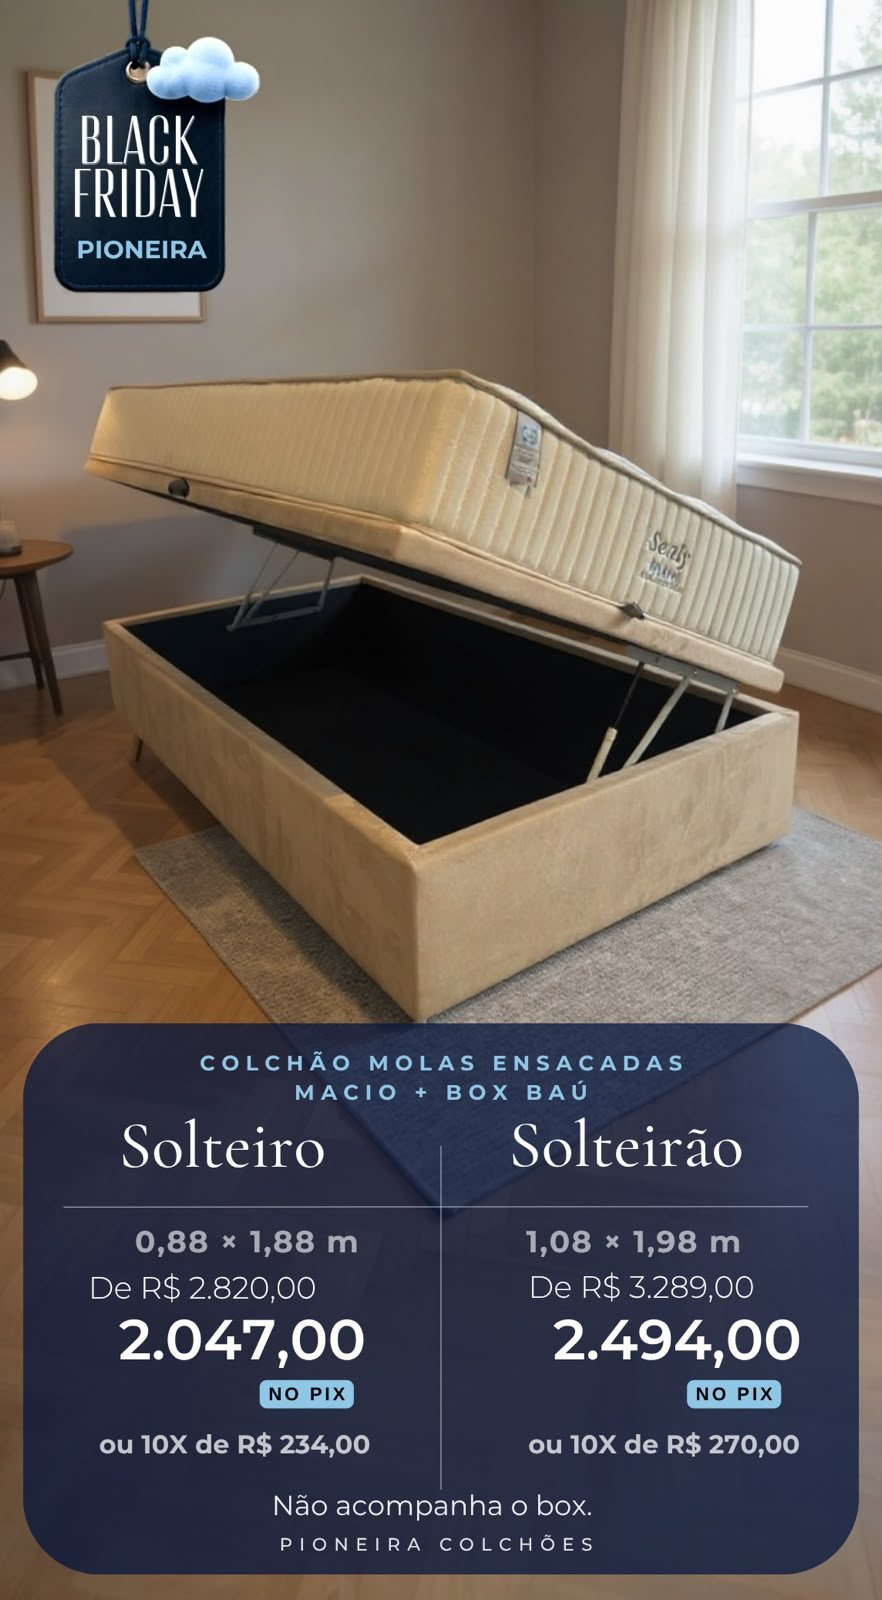
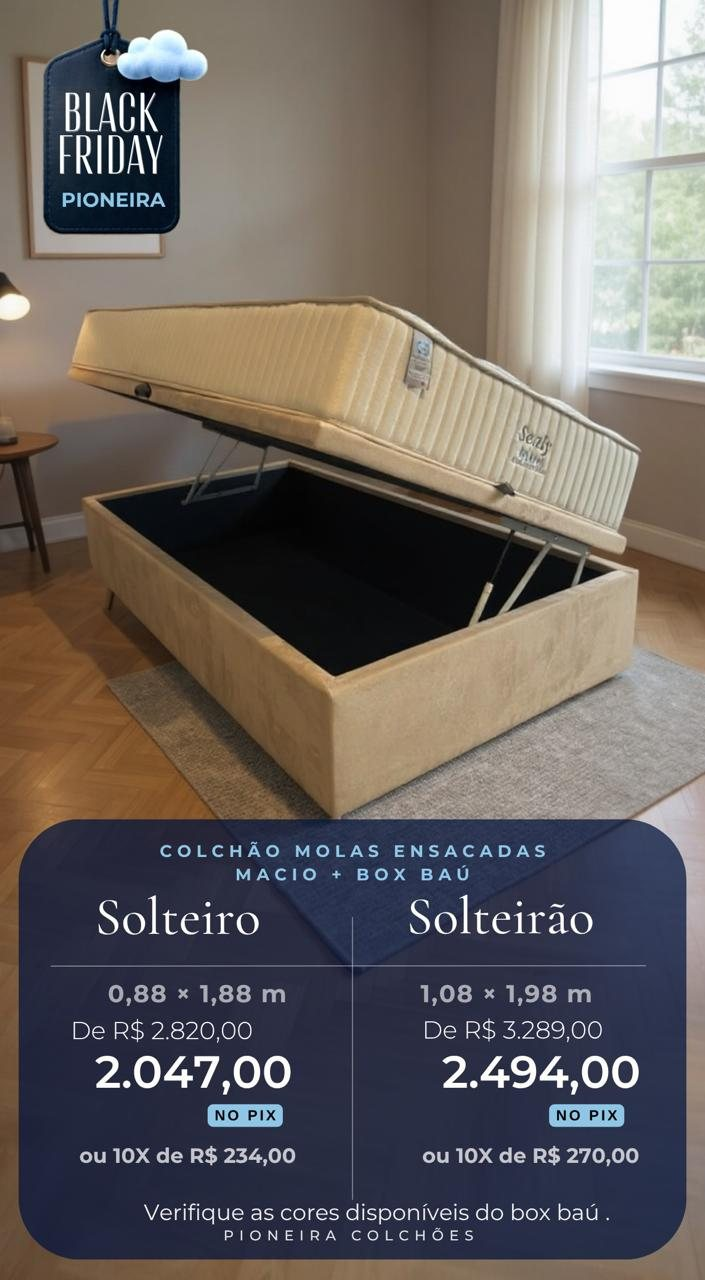
Troca a arte do Colchão + Box Baú Solteiro e Solteirão pela versão corrigida
Claude-Session: https://claude.ai/code/session_01Wenqvw9cMbUz8i68jYt1Pp

diff --git a/index.html b/index.html
@@ -13,7 +13,7 @@
 <meta name="twitter:card" content="summary_large_image"><meta name="twitter:title" content="Black Friday Pioneira"><meta name="twitter:image" content="https://apioneiracolchoes.pages.dev/img/card-oferta.jpg">
 <link rel="icon" href="icon.svg" type="image/svg+xml"><link rel="apple-touch-icon" href="icon-180.png"><link rel="manifest" href="manifest.webmanifest">
 <link rel="stylesheet" href="https://fonts.googleapis.com/css2?family=Cormorant+Garamond:ital,wght@0,500;0,600;1,500&family=Montserrat:wght@400;500;600&family=Comfortaa:wght@600;700&display=swap">
-<link rel="stylesheet" href="style.css?v=20261106f"></head><body>
+<link rel="stylesheet" href="style.css?v=20261106g"></head><body>
 <div id="splash"><span class="logo big"><svg class="cloud" viewBox="0 0 64 40" aria-hidden="true"><path fill="#6db3f0" d="M16 38a12 12 0 0 1-2-23.8A15 15 0 0 1 43 11a13 13 0 0 1 6 27z"/></svg><b>apioneira</b><small>COLCHÕES</small></span></div>
 <div id="app"></div>
-<script>window.BUILD="20261106f"</script><script src="config.js?v=20261106c"></script><script src="products.js?v=20261106c"></script><script src="app.js?v=20261106c"></script></body></html>
+<script>window.BUILD="20261106g"</script><script src="config.js?v=20261106c"></script><script src="products.js?v=20261106c"></script><script src="app.js?v=20261106c"></script></body></html>
